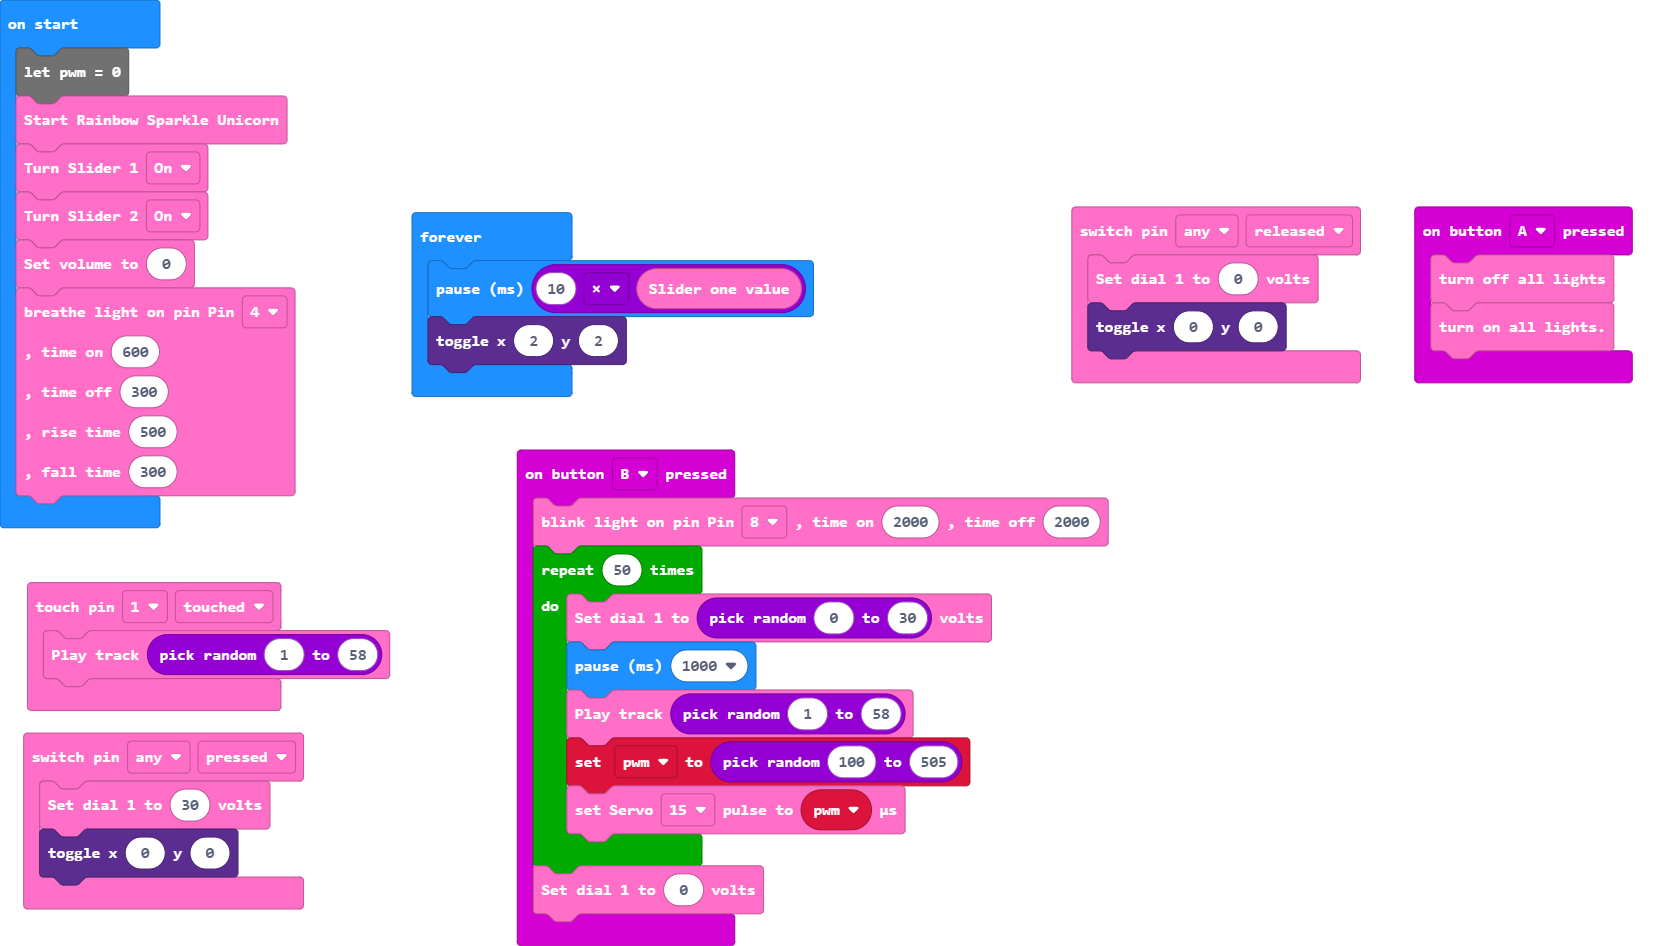
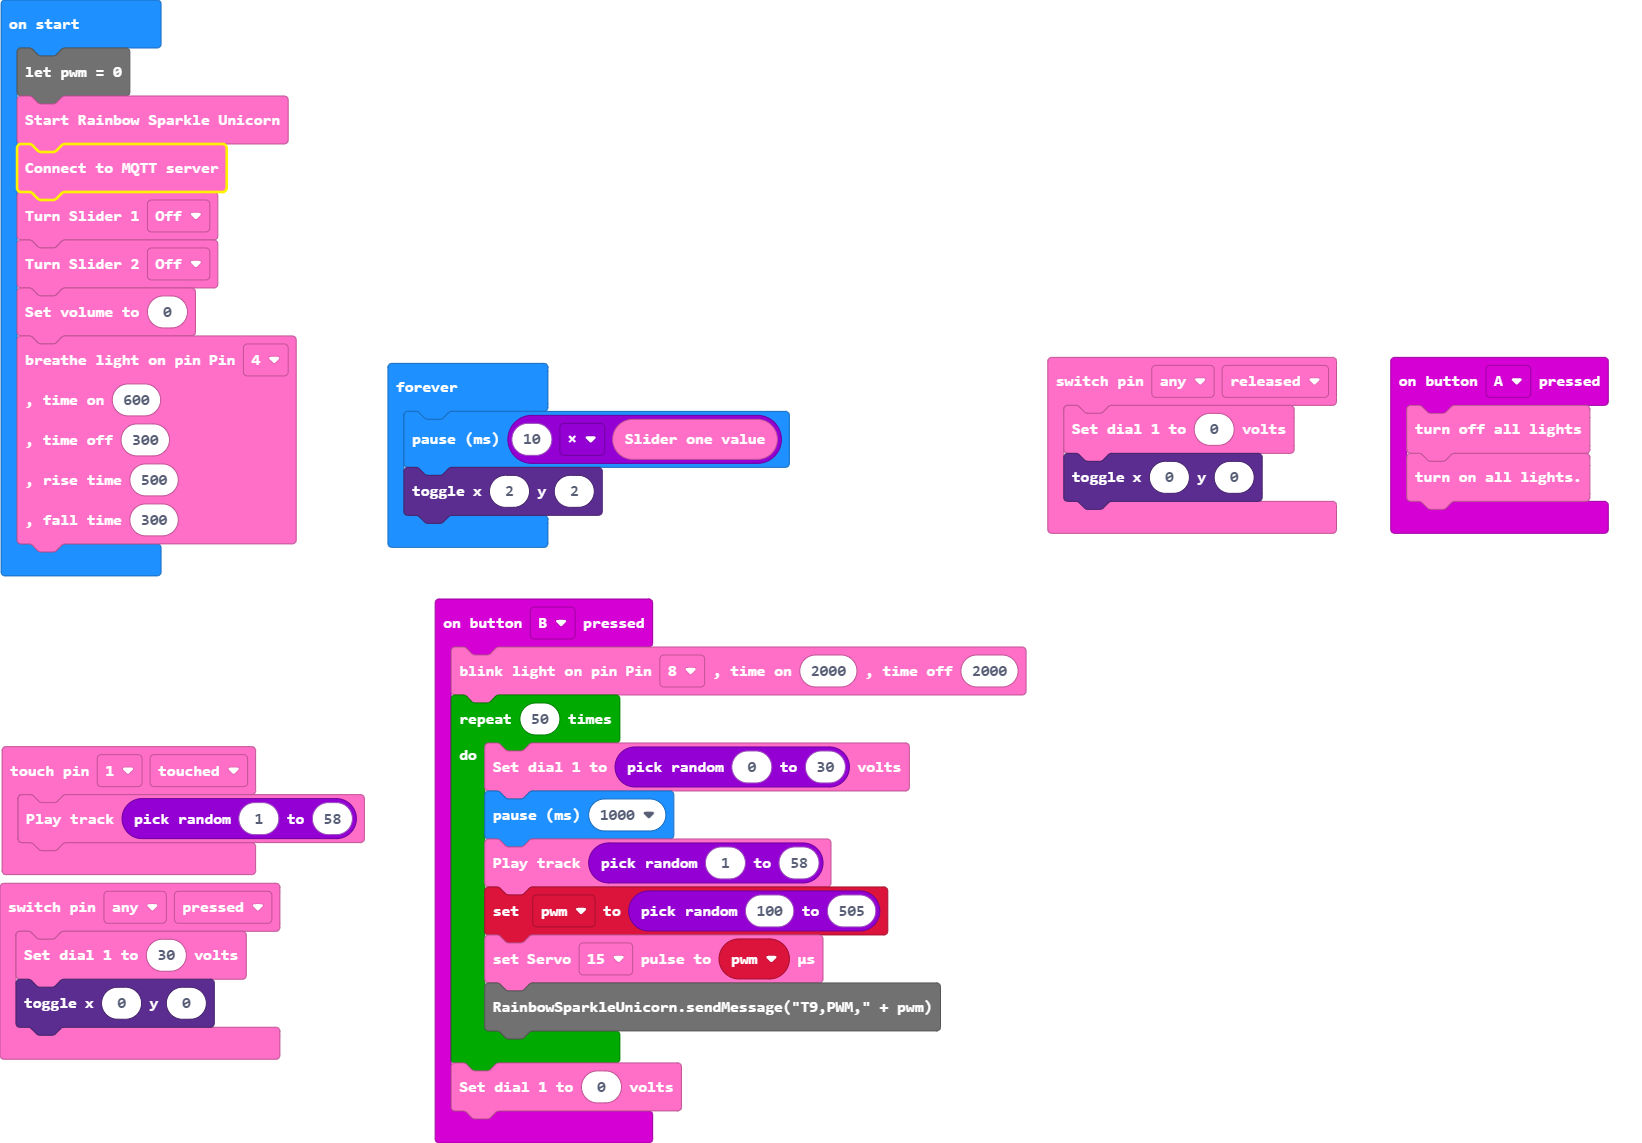
Update main.blocks, main.ts, MQTT.ts

Changed region(s): [[0.0, 0.2146, 0.6833, 1.0], [0.6212, 0.2146, 0.9939, 0.4905], [0.0, 0.0, 0.1864, 0.5825]]

diff --git a/main.ts b/main.ts
@@ -17,6 +17,7 @@ input.onButtonPressed(Button.B, function () {
         RainbowSparkleUnicorn.playTrack(randint(1, 58))
         pwm = randint(100, 505)
         RainbowSparkleUnicorn.setPulse(Servo.S15, pwm)
+        RainbowSparkleUnicorn.sendMessage("T9,PWM," + pwm)
     }
     RainbowSparkleUnicorn.dial1(0)
 })
@@ -26,8 +27,9 @@ RainbowSparkleUnicorn.onSwitch(RainbowSparkleUnicorn.switchPins.Any, RainbowSpar
 })
 let pwm = 0
 RainbowSparkleUnicorn.start()
-RainbowSparkleUnicorn.turnSlider1(OnOff.ON)
-RainbowSparkleUnicorn.turnSlider2(OnOff.ON)
+RainbowSparkleUnicorn.connectToInterWeb()
+RainbowSparkleUnicorn.turnSlider1(OnOff.OFF)
+RainbowSparkleUnicorn.turnSlider2(OnOff.OFF)
 RainbowSparkleUnicorn.setVolume(0)
 RainbowSparkleUnicorn.breathe(
 Breathable.Breathable4,

diff --git a/MQTT.ts b/MQTT.ts
@@ -15,6 +15,6 @@ namespace RainbowSparkleUnicorn {
         sendMessage("T6,914bc336"); 
         sendMessage("T7,9c0279e562dd0e1e");
         sendMessage("T8");
-        sendMessage("T9,Servo,start");
+        sendMessage("T9,State,connected");
     }
 }
